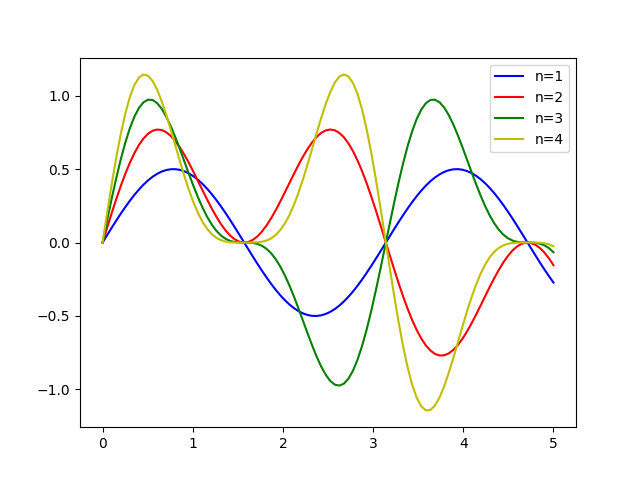
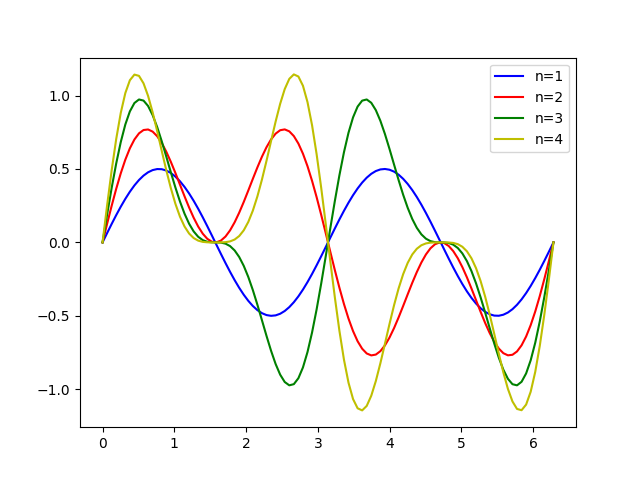
Improve example

diff --git a/sucessions/sucessions-5.py b/sucessions/sucessions-5.py
@@ -2,7 +2,7 @@ import matplotlib.pyplot as plt
 import numpy as np
 
 # 100 linearly spaced numbers
-x = np.linspace(0, 5, 100)
+x = np.linspace(0, 2*np.pi, 100)
 # setting the axes at the centre
 fig = plt.figure()
 
